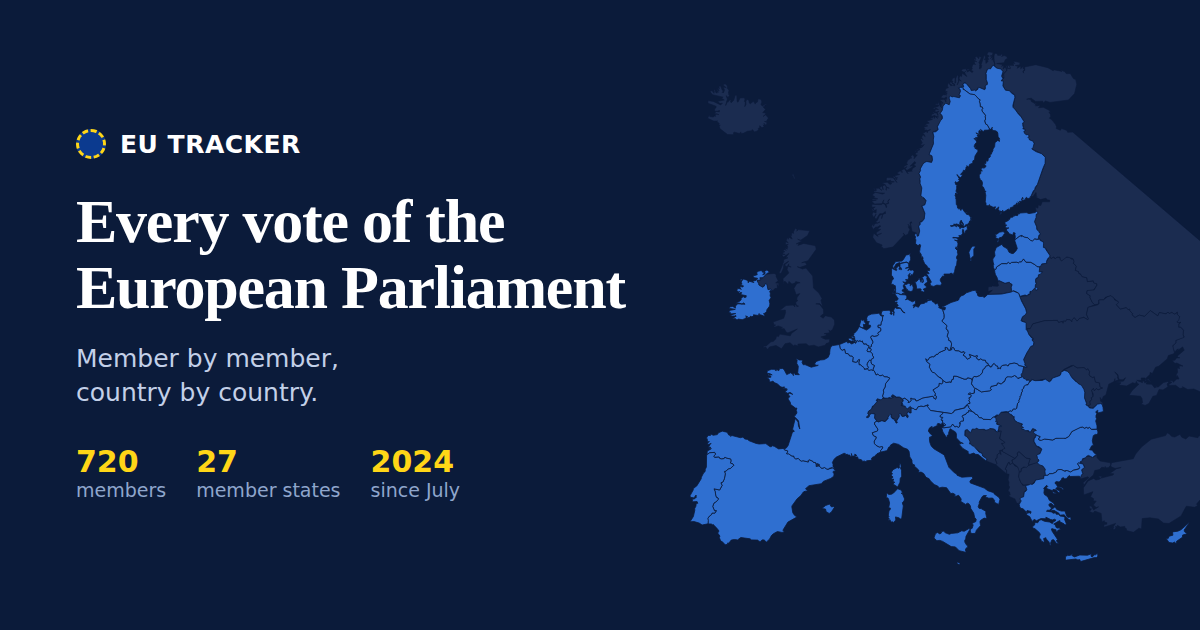
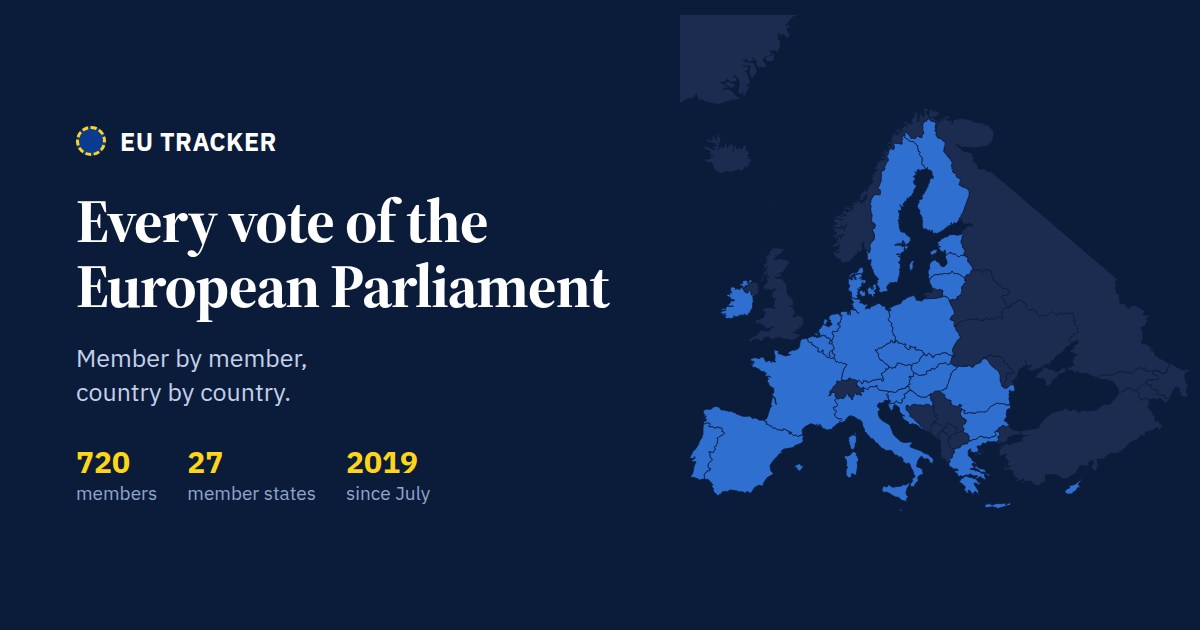
Say "since July 2019" on the shared link's preview picture
The picture shown when the site is shared said "2024, since July" — true
when the site held one Parliament, and wrong since the previous one's votes
were added and the archive reached back to July 2019. The card now reads
the date from the index, so it follows the archive, and its address carries
a version (?v=2019) so apps that cached the old picture fetch the new one.
The app manifest's description said the same and is corrected.

Claude-Session: https://claude.ai/code/session_01Q2GR9PWbYZc6kZnv6W9Gx7

diff --git a/index.html b/index.html
@@ -47,7 +47,7 @@
   <meta property="og:site_name" content="EU Tracker">
   <meta property="og:title" content="EU Tracker — Every vote of the European Parliament, member by member.">
   <meta property="og:description" content="Every main vote of the European Parliament, member by member: search a vote, see how each country and each political group split, and follow any MEP across every vote. Built from the Parliament's own open data.">
-  <meta property="og:image" content="https://volters-cell.github.io/We-Volt/assets/social-card.png">
+  <meta property="og:image" content="https://volters-cell.github.io/We-Volt/assets/social-card.png?v=2019">
   <meta property="og:image:width" content="1200">
   <meta property="og:image:height" content="630">
   <meta property="og:image:alt" content="A map of the European Union beside the words: every vote of the European Parliament, member by member.">
@@ -55,7 +55,7 @@
   <meta name="twitter:card" content="summary_large_image">
   <meta name="twitter:title" content="EU Tracker — Every vote of the European Parliament, member by member.">
   <meta name="twitter:description" content="Every main vote of the European Parliament, member by member: search a vote, see how each country and each political group split, and follow any MEP across every vote. Built from the Parliament's own open data.">
-  <meta name="twitter:image" content="https://volters-cell.github.io/We-Volt/assets/social-card.png">
+  <meta name="twitter:image" content="https://volters-cell.github.io/We-Volt/assets/social-card.png?v=2019">
   <meta name="theme-color" content="#0b3a8f" media="(prefers-color-scheme: light)">
   <meta name="theme-color" content="#171d26" media="(prefers-color-scheme: dark)">
   <meta name="color-scheme" content="light dark">

diff --git a/about.html b/about.html
@@ -46,7 +46,7 @@
   <meta property="og:site_name" content="EU Tracker">
   <meta property="og:title" content="About the data — EU Tracker">
   <meta property="og:description" content="Where EU Tracker's votes come from, how complete they are, how they are processed, and how to check them.">
-  <meta property="og:image" content="https://volters-cell.github.io/We-Volt/assets/social-card.png">
+  <meta property="og:image" content="https://volters-cell.github.io/We-Volt/assets/social-card.png?v=2019">
   <meta property="og:image:width" content="1200">
   <meta property="og:image:height" content="630">
   <meta property="og:image:alt" content="A map of the European Union beside the words: every vote of the European Parliament, member by member.">
@@ -54,7 +54,7 @@
   <meta name="twitter:card" content="summary_large_image">
   <meta name="twitter:title" content="About the data — EU Tracker">
   <meta name="twitter:description" content="Where EU Tracker's votes come from, how complete they are, how they are processed, and how to check them.">
-  <meta name="twitter:image" content="https://volters-cell.github.io/We-Volt/assets/social-card.png">
+  <meta name="twitter:image" content="https://volters-cell.github.io/We-Volt/assets/social-card.png?v=2019">
   <meta name="theme-color" content="#0b3a8f" media="(prefers-color-scheme: light)">
   <meta name="theme-color" content="#171d26" media="(prefers-color-scheme: dark)">
   <meta name="color-scheme" content="light dark">
